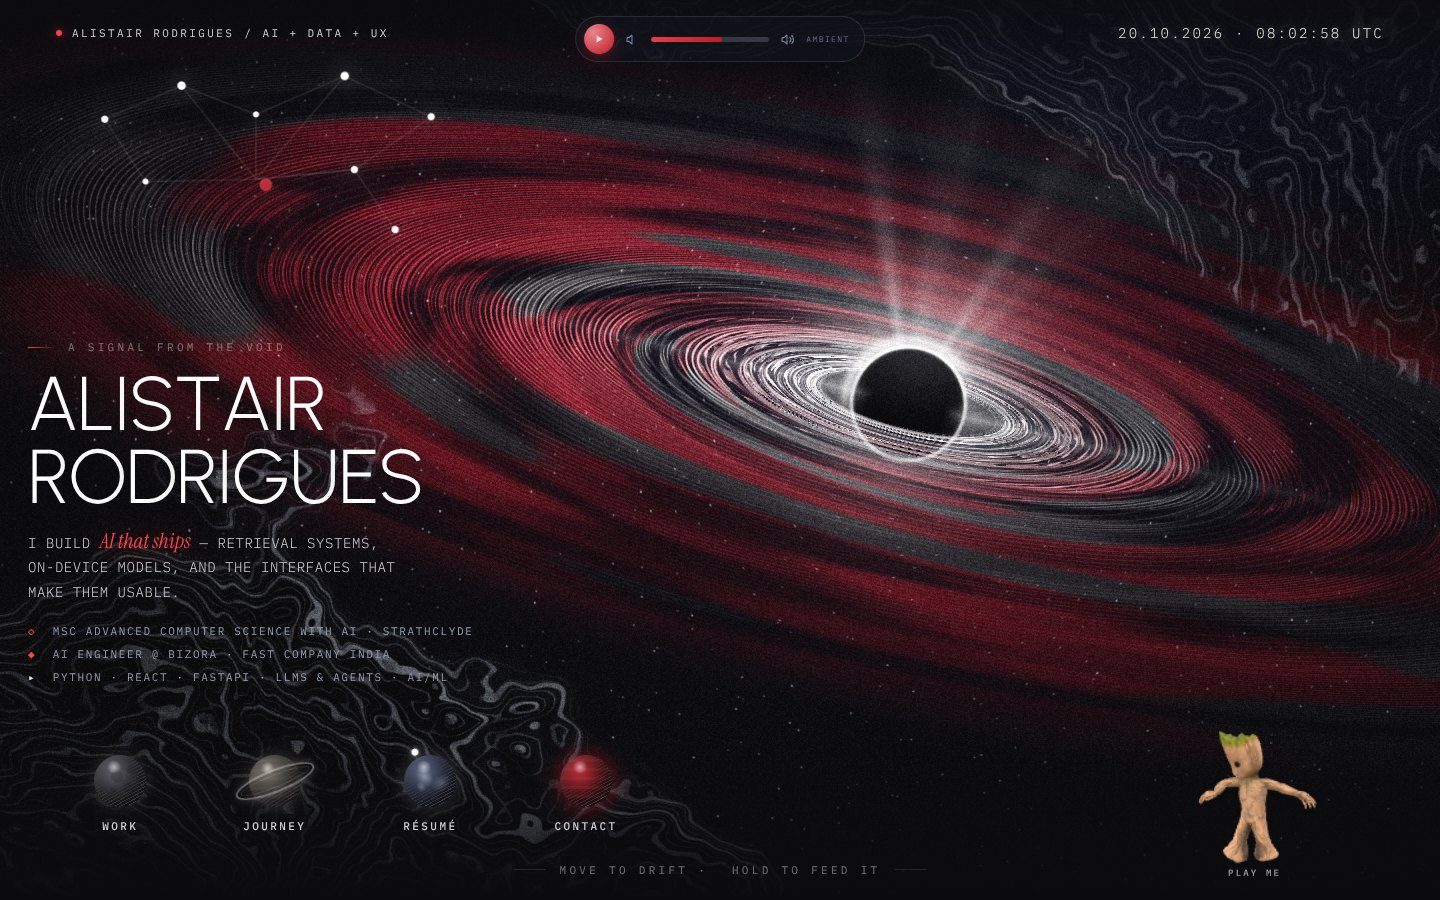
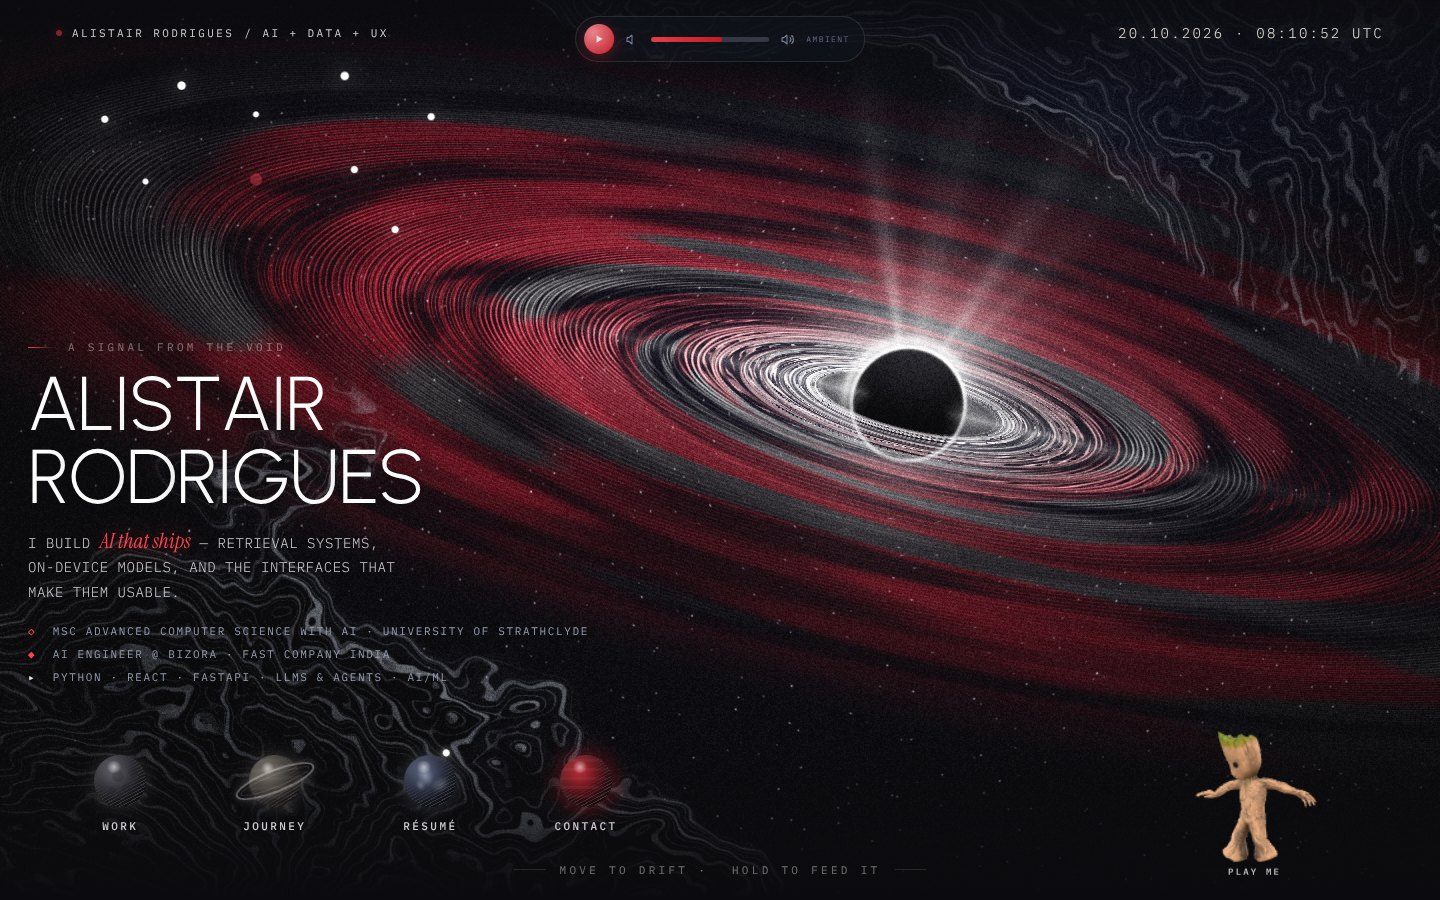
feat(finder): Bizora, The System and PyLearnWeb in Web & Apps; OpenJev as in-development
- Web & Apps adds Bizora Media (company site), The System (Solo Leveling 3D
  portfolio) and PyLearnWeb, each with a Live button to its GitHub Pages
  site (paths confirmed from each repo's basePath / base config).
- Projects adds OpenJev at the end with a muted "IN DEV" tag and
  "Not ready yet"; no Live button.
- Project keys match repo slugs so the GitHub sync can't list them twice.
- Hero: "MSc Advanced Computer Science with AI · University of Strathclyde";
  copy column widened (480 -> 580px max) so it stays on one line.
- README: refreshed hero, phone and Finder screenshots; Finder description.

Claude-Session: https://claude.ai/code/session_015pYCkSWb3QZMS1jhky79RR

diff --git a/index.html b/index.html
@@ -148,7 +148,7 @@
 
 
   /* HERO copy — positioned to avoid overlap with header */
-  .hero-copy{position:absolute;bottom:calc(clamp(46px,7.5vh,104px) + 132px);left:28px;transform:none;text-align:left;z-index:4;width:min(44vw,480px);text-transform:uppercase}
+  .hero-copy{position:absolute;bottom:calc(clamp(46px,7.5vh,104px) + 132px);left:28px;transform:none;text-align:left;z-index:4;width:min(46vw,580px);text-transform:uppercase}
   .hero-copy .hero-kicker{font-family:var(--font-mono);font-size:11px;font-weight:400;letter-spacing:.3em;color:var(--dim);margin:0 0 14px;display:flex;align-items:center;gap:12px}
   .hero-copy .hero-kicker::before{content:"";width:28px;height:1px;background:linear-gradient(90deg,#ff3b47,rgba(211,18,31,0))}
   .hero-copy .hero-name{font-family:var(--font-display);font-style:normal;font-weight:300;text-transform:uppercase;font-size:var(--text-4xl);line-height:.95;letter-spacing:-.01em;color:var(--ink);margin:0;text-shadow:0 4px 40px rgba(0,0,0,.55);white-space:nowrap}
@@ -399,6 +399,7 @@
   .desktop-pane .df-cards::-webkit-scrollbar{width:6px}
   .desktop-pane .df-cards::-webkit-scrollbar-thumb{background:transparent;border-radius:99px}
   .desktop-pane .df-cards:hover::-webkit-scrollbar-thumb{background:rgba(233,228,223,.28)}
+  .desktop-pane .df-card__tag--wip{background:rgba(142,140,152,.14);color:#b5b3bd;border:1px dashed rgba(142,140,152,.45)}
   .desktop-pane .df-card__live{position:absolute;right:10px;bottom:10px;z-index:2;display:inline-flex;align-items:center;gap:4px;padding:3px 9px;border-radius:999px;
     font-family:var(--font-mono);font-size:var(--text-2xs);font-weight:500;letter-spacing:.08em;text-transform:uppercase;text-decoration:none;
     color:#ffd9dc;background:rgba(211,18,31,.22);border:1px solid rgba(255,59,71,.45);transition:background .2s,color .2s,box-shadow .2s}
@@ -1108,7 +1109,7 @@
       <p class="hero-kicker">A SIGNAL FROM THE VOID</p>
       <h1 id="sig-name" class="hero-name hero-headline-wrap"></h1>
       <p class="hero-sub hero-sub-wrap">I build <span class="accent">AI that ships</span> — retrieval systems, on-device models, and the interfaces that make them usable.</p>
-      <p class="hero-sub-wrap" style="margin-top:16px;font-family:var(--font-mono);font-size:11px;letter-spacing:.15em;text-transform:uppercase;color:#8f98ad;line-height:2.1"><span style="color:#ff3b47">◇</span>&nbsp; MSc Advanced Computer Science with AI · Strathclyde<br><span style="color:#ff3b47">◆</span>&nbsp; AI Engineer @ Bizora · Fast Company India<br><span style="color:#e9e4df">▸</span>&nbsp; Python · React · FastAPI · LLMs &amp; Agents · AI/ML</p>
+      <p class="hero-sub-wrap" style="margin-top:16px;font-family:var(--font-mono);font-size:11px;letter-spacing:.15em;text-transform:uppercase;color:#8f98ad;line-height:2.1"><span style="color:#ff3b47">◇</span>&nbsp; MSc Advanced Computer Science with AI · University of Strathclyde<br><span style="color:#ff3b47">◆</span>&nbsp; AI Engineer @ Bizora · Fast Company India<br><span style="color:#e9e4df">▸</span>&nbsp; Python · React · FastAPI · LLMs &amp; Agents · AI/ML</p>
     </div>
 
     <div class="hero-planets" aria-label="Primary signals">
@@ -3648,6 +3649,10 @@ void main() {
       jericho_agentic_space_station: { letter:'J', bg:'#3a070d', fg:'#ff8088', tag:'AI', tagClass:'ai', desc:'Live 3D dashboard of 30 Claude Code skills — who is running and how far along', date:'2026 · Agents', live:'https://alistair77.github.io/Jericho-Agentic-Space-Station/' },
       semantic_cache: { letter:'S', bg:'#3a070d', fg:'#ff8088', tag:'AI', tagClass:'ai', desc:'Vector cache for Claude API calls — repeat questions in 84 ms instead of 34 s', date:'2026 · LLMOps' },
       zetsu_voice_agent: { letter:'Z', bg:'#3a070d', fg:'#ff8088', tag:'AI', tagClass:'ai', desc:'Voice-first assistant that runs entirely on your machine — no API keys', date:'2026 · Voice AI' },
+      openjev: { letter:'O', bg:'#1a1a22', fg:'#8e8c98', tag:'IN DEV', tagClass:'wip', desc:'Typed decision intelligence — probabilities, confidence and honest abstention', date:'2026 · Not ready yet' },
+      bizaura: { letter:'B', bg:'#101c46', fg:'#a9c1ff', tag:'WEB', tagClass:'web', desc:'Bizora Media company website — rebuilt in 7 days', date:'2026 · Client site', live:'https://alistair77.github.io/bizaura/' },
+      alistair: { letter:'T', bg:'#101c46', fg:'#a9c1ff', tag:'WEB', tagClass:'web', desc:'The System — a Solo Leveling-inspired 3D interactive portfolio', date:'2026 · 3D Web', live:'https://alistair77.github.io/Alistair/' },
+      pylearnweb: { letter:'P', bg:'#101c46', fg:'#a9c1ff', tag:'WEB', tagClass:'web', desc:'Python-learning platform landing page — React 19, Vite, Three.js hero', date:'2026 · Landing page', live:'https://alistair77.github.io/pylearnweb/' },
       professional_portfolio_website: { letter:'P', bg:'#101c46', fg:'#a9c1ff', tag:'WEB', tagClass:'web', desc:'Professional portfolio — AI engineer, LLM apps, RAG and agents', date:'2026 · Portfolio', live:'https://alistair77.github.io/professional-portfolio-website/' },
       hawkai: { letter:'H', bg:'#101c46', fg:'#a9c1ff', tag:'WEB', tagClass:'web', desc:'3D login — React, Three.js, Ant Design', date:'2026 · Featured', live:'work/hawkai-login-showcase/' },
       quantasphere: { letter:'Q', bg:'#101c46', fg:'#a9c1ff', tag:'WEB', tagClass:'web', desc:'Cursor-driven video scrub hero', date:'2026 · Interactive', live:'work/quantasphere-hero-export/' },
@@ -3675,10 +3680,14 @@ void main() {
         { name: 'Agent Evals', type: 'project', icon: '', proj: 'agent_evals' },
         { name: 'Jericho', type: 'project', icon: '', proj: 'jericho_agentic_space_station' },
         { name: 'Semantic Cache', type: 'project', icon: '', proj: 'semantic_cache' },
-        { name: 'Zetsu', type: 'project', icon: '', proj: 'zetsu_voice_agent' }
+        { name: 'Zetsu', type: 'project', icon: '', proj: 'zetsu_voice_agent' },
+        { name: 'OpenJev', type: 'project', icon: '', proj: 'openjev' }   // in development — shown last
       ],
       web: [
         { name: 'Professional Portfolio', type: 'project', icon: '', proj: 'professional_portfolio_website' },
+        { name: 'Bizora Media', type: 'project', icon: '', proj: 'bizaura' },
+        { name: 'The System', type: 'project', icon: '', proj: 'alistair' },
+        { name: 'PyLearnWeb', type: 'project', icon: '', proj: 'pylearnweb' },
         { name: 'HawkAI Login', type: 'project', icon: 'uploads/hawkai-thumb.svg', proj: 'hawkai' },
         { name: 'Quantasphere', type: 'project', icon: 'uploads/quantasphere-thumb.jpg', proj: 'quantasphere' },
         { name: 'Study Snippets', type: 'project', icon: 'uploads/study-snippets-thumb.svg', proj: 'study_snippets' },
@@ -3688,6 +3697,22 @@ void main() {
         { name: 'Launch Live Site.app', type: 'link', url: 'https://alistair77.github.io/professional-portfolio-website/', target: '_blank', size: 'Live' },
         { name: 'GitHub Repository.lnk', type: 'link', url: 'https://github.com/Alistair77/professional-portfolio-website', target: '_blank', size: 'GitHub' },
         { name: 'Documentation.lnk', type: 'link', url: 'https://github.com/Alistair77/professional-portfolio-website/blob/main/README.md', target: '_blank', size: 'Doc Link' }
+      ],
+      openjev: [
+        { name: 'GitHub Repository.lnk', type: 'link', url: 'https://github.com/Alistair77/openjev', target: '_blank', size: 'GitHub' },
+        { name: 'Status.txt', type: 'link', url: 'https://github.com/Alistair77/openjev#readme', target: '_blank', size: 'In development' }
+      ],
+      bizaura: [
+        { name: 'Launch Live Site.app', type: 'link', url: 'https://alistair77.github.io/bizaura/', target: '_blank', size: 'Live' },
+        { name: 'GitHub Repository.lnk', type: 'link', url: 'https://github.com/Alistair77/bizaura', target: '_blank', size: 'GitHub' }
+      ],
+      alistair: [
+        { name: 'Launch Live Site.app', type: 'link', url: 'https://alistair77.github.io/Alistair/', target: '_blank', size: 'Live' },
+        { name: 'GitHub Repository.lnk', type: 'link', url: 'https://github.com/Alistair77/Alistair', target: '_blank', size: 'GitHub' }
+      ],
+      pylearnweb: [
+        { name: 'Launch Live Site.app', type: 'link', url: 'https://alistair77.github.io/pylearnweb/', target: '_blank', size: 'Live' },
+        { name: 'GitHub Repository.lnk', type: 'link', url: 'https://github.com/Alistair77/pylearnweb', target: '_blank', size: 'GitHub' }
       ],
       jericho_agentic_space_station: [
         { name: 'Launch Live Site.app', type: 'link', url: 'https://alistair77.github.io/Jericho-Agentic-Space-Station/', target: '_blank', size: 'Live' },

diff --git a/README.md b/README.md
@@ -27,7 +27,7 @@ A black hole drawn like an engraving: hair-thin orbital streaks banded in crimso
 A scrolling brand marquee (Vercel, Linear, Stripe…) on a 3D tilt.
 
 ### The Observer — selected work
-A poetic intro over the starfield, then a macOS-style Finder window. **Projects** shows the six AI projects (the grid scrolls on hover once there are more); the Professional Portfolio, web projects and apps sit under **Web & Apps**. Cards for deployed projects carry a **Live ↗** button that opens the GitHub Pages site. Also **AI Agents** (an interactive architecture map) and **Résumé**, with Quick Look previews. Repositories tagged `portfolio` on GitHub appear automatically, and live links are picked up from each repo's homepage / Pages setting.
+A poetic intro over the starfield, then a macOS-style Finder window. **Projects** shows the six AI projects plus OpenJev (marked *in development*) — the grid scrolls on hover once it outgrows the pane. **Web & Apps** holds the Professional Portfolio, the Bizora Media site, The System (3D portfolio), PyLearnWeb, the earlier web projects and the Android apps. Cards for deployed projects carry a **Live ↗** button that opens the GitHub Pages site. Also **AI Agents** (an interactive architecture map) and **Résumé**, with Quick Look previews. Repositories tagged `portfolio` on GitHub appear automatically, and live links are picked up from each repo's homepage / Pages setting.
 
 ![The Observer](docs/screenshots/observer.jpg)
 ![Finder — Projects](docs/screenshots/work.jpg)
